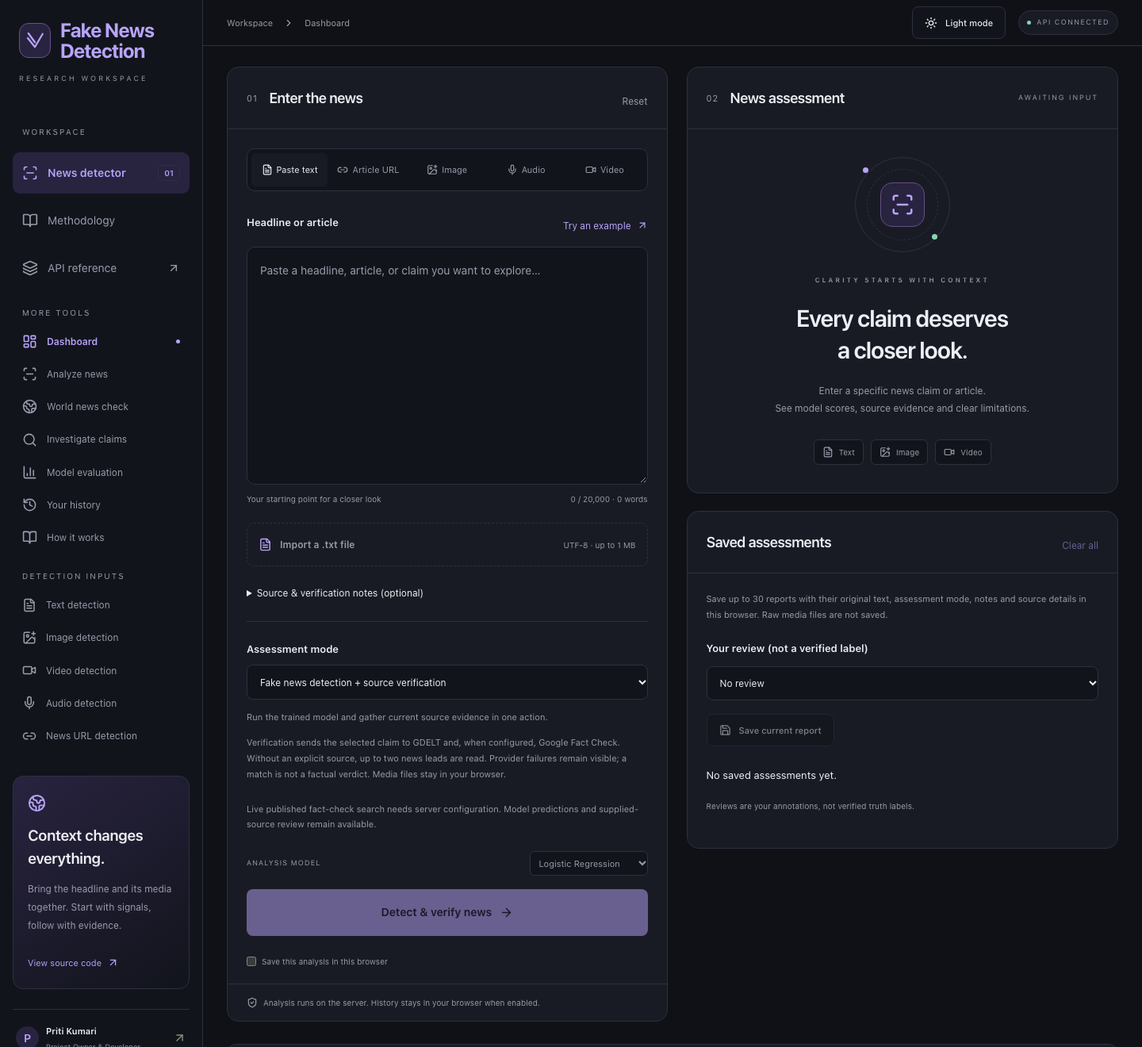
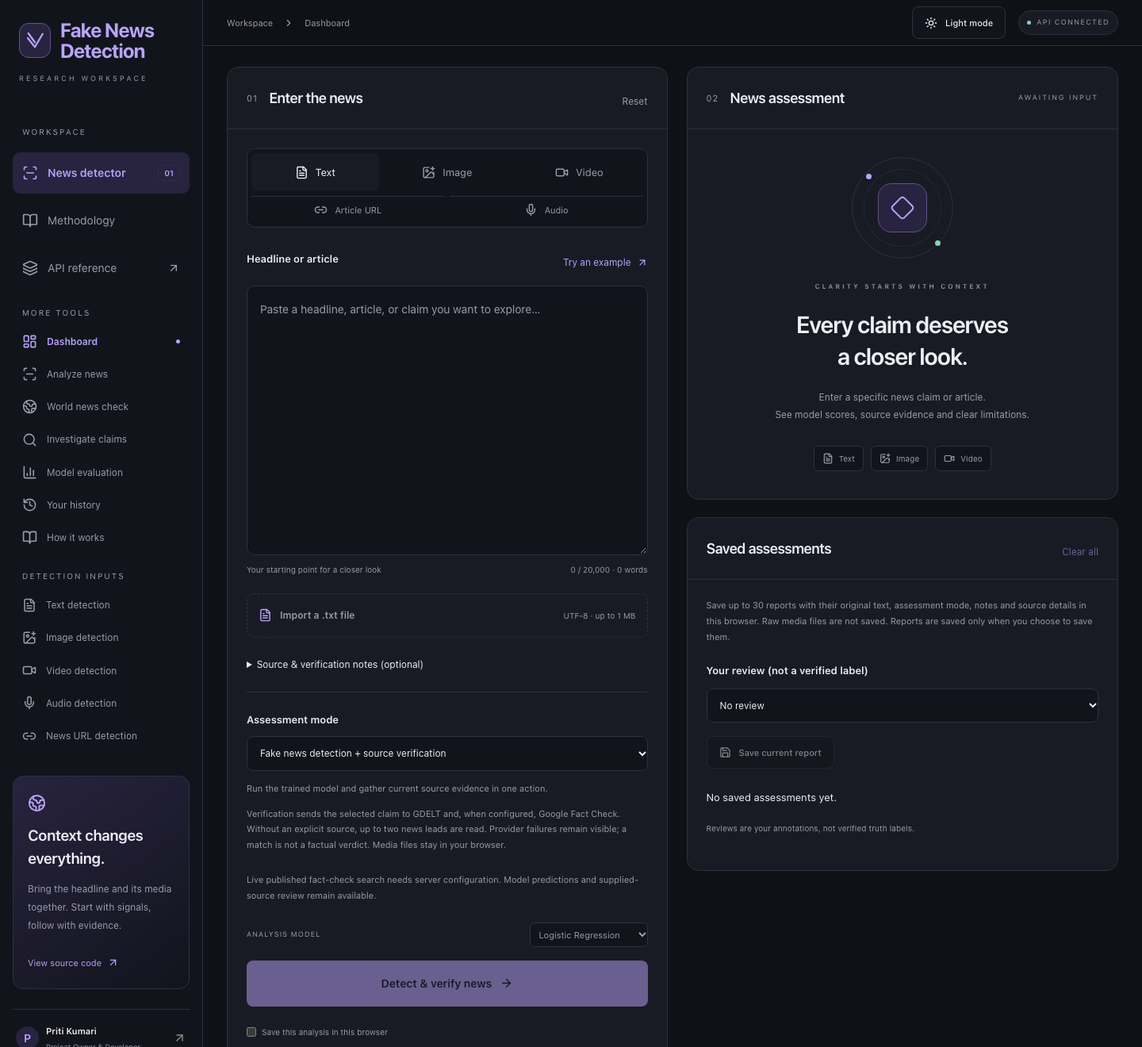
feat: refine reference workspace and accessible input navigation

diff --git a/frontend/research.css b/frontend/research.css
@@ -41,9 +41,9 @@ body{background:var(--paper);color:var(--ink);font:14px/1.6 var(--sans)}
 .research-app .input-tabs button.selected{background:var(--panel);color:var(--ink)}
 .research-app .input-tabs button svg{width:14px;height:14px}
 .research-app .analysis-card{overflow:hidden}
-.research-app .analysis-card>.input-dropzone{margin:26px 24px 0;padding:0;border:0;background:transparent;box-shadow:none}
-.research-app .analysis-card>.input-dropzone.drag-active{outline:2px dashed var(--accent);outline-offset:8px}
-.research-app .analysis-card>.input-dropzone>.drop-instruction{display:none}
+.research-app .analysis-card>.input-panel>.input-dropzone{margin:26px 24px 0;padding:0;border:0;background:transparent;box-shadow:none}
+.research-app .analysis-card>.input-panel>.input-dropzone.drag-active{outline:2px dashed var(--accent);outline-offset:8px}
+.research-app .analysis-card>.input-panel>.input-dropzone>.drop-instruction{display:none}
 .editor-heading{display:flex;justify-content:space-between;align-items:center;gap:16px;margin:0 0 17px}
 .editor-heading label{font-size:13px;font-weight:600;color:var(--ink)}
 .editor-heading button{white-space:nowrap;font-size:12px}
@@ -120,10 +120,10 @@ body{background:var(--paper);color:var(--ink);font:14px/1.6 var(--sans)}
 .research-app .publisher-rating{color:var(--accent);border-color:var(--line);background:var(--lime);font-size:11px}
 .research-app .bottom-strip{font-size:10px;color:var(--muted);margin:28px 0 0}.research-app footer{border-color:var(--line);color:var(--muted);font-size:10px;margin:0 30px;padding:22px 0}.research-app footer>span{color:var(--muted)}
 .research-app button:focus-visible,.research-app a:focus-visible,.research-app input:focus-visible,.research-app select:focus-visible,.research-app textarea:focus-visible{outline:2px solid var(--accent);outline-offset:4px}
-@media(min-width:1800px){.research-app .main-shell main{padding:32px 40px}.research-app .workspace-grid{gap:28px}.research-app .analysis-card .input-dropzone textarea{min-height:360px}.assessment-waiting{min-height:490px}.research-app .card-header{padding:28px 30px}.research-app .analysis-card>.input-dropzone{margin:30px 30px 0}.research-app .input-tabs{margin:28px 30px 0}.research-app .assessment-controls,.research-app .input-controls{margin:28px 30px}.assessment-waiting h3{font-size:35px}}
-@media(max-width:1200px) and (min-width:1001px){.research-app .sidebar{width:220px}.research-app .main-shell{margin-left:220px}.research-app main{padding:22px 20px}.research-app .workspace-grid{gap:18px}.research-app .card-header{padding:20px 18px}.research-app .input-tabs{margin:20px 18px 0}.research-app .input-tabs button{font-size:10px;gap:3px}.research-app .analysis-card>.input-dropzone{margin:22px 18px 0}.research-app .assessment-controls,.research-app .input-controls{margin:22px 18px}.assessment-status{font-size:8px;letter-spacing:1px}.assessment-waiting h3{font-size:25px}.saved-assessments-body{padding:20px 18px}}
+@media(min-width:1800px){.research-app .main-shell main{padding:32px 40px}.research-app .workspace-grid{gap:28px}.research-app .analysis-card .input-dropzone textarea{min-height:360px}.assessment-waiting{min-height:490px}.research-app .card-header{padding:28px 30px}.research-app .analysis-card>.input-panel>.input-dropzone{margin:30px 30px 0}.research-app .input-tabs{margin:28px 30px 0}.research-app .assessment-controls,.research-app .input-controls{margin:28px 30px}.assessment-waiting h3{font-size:35px}}
+@media(max-width:1200px) and (min-width:1001px){.research-app .sidebar{width:220px}.research-app .main-shell{margin-left:220px}.research-app main{padding:22px 20px}.research-app .workspace-grid{gap:18px}.research-app .card-header{padding:20px 18px}.research-app .input-tabs{margin:20px 18px 0}.research-app .input-tabs button{font-size:10px;gap:3px}.research-app .analysis-card>.input-panel>.input-dropzone{margin:22px 18px 0}.research-app .assessment-controls,.research-app .input-controls{margin:22px 18px}.assessment-status{font-size:8px;letter-spacing:1px}.assessment-waiting h3{font-size:25px}.saved-assessments-body{padding:20px 18px}}
 @media(max-width:1000px){.research-app .sidebar{width:270px;transform:translateX(-100%);transition:transform .2s;box-shadow:20px 0 80px #0007}.research-app .sidebar.open{transform:translateX(0)}.research-app .main-shell{margin-left:0}.research-app .mobile-bar{display:flex;align-items:center;justify-content:space-between;padding:14px 20px;height:76px;border-bottom:1px solid var(--line);background:var(--inset)}.research-app .mobile-bar .brand{font:700 18px/1.1 var(--sans);gap:10px}.research-app .mobile-bar .brand-mark{height:36px;width:34px}.research-app .topbar{height:49px;padding:0 20px}.research-app .workspace-grid{grid-template-columns:minmax(0,1fr)}.assessment-column{grid-template-columns:minmax(0,1fr) minmax(0,1fr)}.assessment-waiting{min-height:380px}.research-app main{padding:20px}.research-app .research-badge{display:none}.research-app .verification-features{grid-template-columns:1fr}.research-app .input-tabs button{font-size:12px}}
-@media(max-width:650px){.research-app .topbar>div{gap:7px;font-size:10px}.research-app .theme-toggle{font-size:10px;padding:6px 9px}.research-app main{padding:16px 12px}.research-app .workspace-grid{gap:18px}.assessment-column{grid-template-columns:minmax(0,1fr)}.research-app .card-header{padding:20px 18px;min-height:69px}.research-app .card-header h2{font-size:17px}.research-app .input-tabs{margin:18px 16px 0;grid-template-columns:repeat(3,minmax(0,1fr));gap:5px}.research-app .input-tabs button{padding:10px 5px;font-size:11px}.research-app .analysis-card>.input-dropzone{margin:22px 16px 0}.editor-heading{gap:10px}.editor-heading label{font-size:12px}.editor-heading button{font-size:11px}.research-app .analysis-card .input-dropzone textarea{min-height:260px;font-size:14px}.research-app .editor-meta{font-size:9px}.research-app .assessment-controls,.research-app .input-controls{margin:22px 16px}.research-app .verification-availability{margin:0 16px 18px}.research-app .text-upload-label{font-size:11px;padding:16px 11px}.text-upload-label>small{font-size:9px}.research-app .history-opt{margin:0 16px 18px}.research-app .privacy-note{padding:15px 16px}.assessment-waiting{min-height:390px}.research-app footer{margin:0 16px;font-size:9px;flex-direction:column}.research-app .subpage h1{font-size:36px}.research-app .research-badge{display:none}.research-app .classification-options{grid-template-columns:1fr}.research-app .bottom-strip{flex-direction:column;align-items:flex-start}.assessment-model-score>strong{font-size:36px}}
+@media(max-width:650px){.research-app .topbar>div{gap:7px;font-size:10px}.research-app .theme-toggle{font-size:10px;padding:6px 9px}.research-app main{padding:16px 12px}.research-app .workspace-grid{gap:18px}.assessment-column{grid-template-columns:minmax(0,1fr)}.research-app .card-header{padding:20px 18px;min-height:69px}.research-app .card-header h2{font-size:17px}.research-app .input-tabs{margin:18px 16px 0;grid-template-columns:repeat(3,minmax(0,1fr));gap:5px}.research-app .input-tabs button{padding:10px 5px;font-size:11px}.research-app .analysis-card>.input-panel>.input-dropzone{margin:22px 16px 0}.editor-heading{gap:10px}.editor-heading label{font-size:12px}.editor-heading button{font-size:11px}.research-app .analysis-card .input-dropzone textarea{min-height:260px;font-size:14px}.research-app .editor-meta{font-size:9px}.research-app .assessment-controls,.research-app .input-controls{margin:22px 16px}.research-app .verification-availability{margin:0 16px 18px}.research-app .text-upload-label{font-size:11px;padding:16px 11px}.text-upload-label>small{font-size:9px}.research-app .history-opt{margin:0 16px 18px}.research-app .privacy-note{padding:15px 16px}.assessment-waiting{min-height:390px}.research-app footer{margin:0 16px;font-size:9px;flex-direction:column}.research-app .subpage h1{font-size:36px}.research-app .research-badge{display:none}.research-app .classification-options{grid-template-columns:1fr}.research-app .bottom-strip{flex-direction:column;align-items:flex-start}.assessment-model-score>strong{font-size:36px}}
 @media(prefers-reduced-motion:reduce){html{scroll-behavior:auto}.research-app *{animation:none!important;transition:none!important;scroll-behavior:auto!important}}
 @media print{.research-app .sidebar,.research-app .mobile-bar,.research-app .topbar,.assessment-column,.assessment-controls,.research-app .classification-dashboard,.research-app .verification-features{display:none!important}.research-app .main-shell{margin:0}.research-app main{padding:0}.research-app .card{color:#111!important;background:#fff!important;border-color:#ccc}.research-app .workspace-grid{display:none}.research-app .results-section,.research-app .verification-assessment{color:#111!important}}
 
@@ -133,3 +133,21 @@ body{background:var(--paper);color:var(--ink);font:14px/1.6 var(--sans)}
 .research-app .highlighted-text mark{background:var(--lime);color:var(--ink);border-radius:3px;padding:1px 3px}
 .research-app .contribution-row{font-size:11px;color:var(--ink)}.research-app .contribution-track{background:var(--inset)}.research-app .contribution-track .real{background:#91c6ae}.research-app .contribution-track .fake{background:#d99f91}
 .research-app table th{color:var(--muted);border-color:var(--line)}.research-app table td{color:var(--ink);border-color:var(--line)}.research-app .confusion-matrix strong{background:var(--inset);color:var(--ink)}.research-app .confusion-matrix strong.mistake{background:var(--lime);color:var(--accent)}
+
+/* Reference workspace: three main inputs, with the existing extra tools below. */
+@media print{body[data-media-evidence-print] .analysis-card>.input-panel{display:block!important}body[data-media-evidence-print] .input-panel>:not(.media-input){display:none!important}}
+.research-app .input-tools{display:grid;grid-template-columns:repeat(6,minmax(0,1fr));gap:6px;margin:24px 24px 0;padding:5px;border:1px solid var(--line);border-radius:10px;background:var(--inset)}
+.input-tools button{display:flex;align-items:center;justify-content:center;gap:9px;color:var(--muted);border-radius:7px;min-height:44px;font-size:13px}
+.input-tools .main-input-tab{grid-column:span 2;min-height:48px}
+.input-tools .extra-input-tab{grid-column:span 3;border-top:1px solid var(--line);border-radius:0;font-size:11px;min-height:34px}
+.input-tools button.selected{background:var(--panel);color:var(--ink)}
+.input-tools button:hover{color:var(--accent)}
+.research-app .analysis-card .input-dropzone textarea{min-height:340px}
+.research-app .assessment-waiting{min-height:460px}
+.research-app .assessment-orbit{width:128px;height:128px}
+.research-app .assessment-orbit>span{width:62px;height:62px;border-radius:17px}
+.research-app .assessment-orbit>span svg{stroke-width:1.5}
+.research-app .editor-heading{margin-bottom:20px}
+@media(min-width:1800px){.research-app .analysis-card .input-dropzone textarea{min-height:420px}.research-app .input-tools{margin:28px 30px 0}.research-app .assessment-waiting{min-height:540px}}
+@media(max-width:1200px) and (min-width:1001px){.research-app .input-tools{margin:20px 18px 0}}
+@media(max-width:650px){.research-app .input-tools{margin:18px 16px 0}.input-tools button{gap:6px;font-size:12px}.research-app .analysis-card .input-dropzone textarea{min-height:280px}.research-app .assessment-waiting{min-height:390px}}

diff --git a/frontend/page.tsx b/frontend/page.tsx
@@ -8,6 +8,7 @@ import DropArea from "./drop-area";
 import Investigation from "./investigation";
 import WorldNews from "./world-news";
 import { AssessmentControls, VerificationAssessment, defaultAssessment, type SourceVerification } from "./assessment";
+import InputTabs from "./input-tabs";
 import { AssessmentPreview, SavedAssessments } from "./research-workspace";
 import type { Analysis, Explanation, Saved, ReaderReview } from "./news-types";
 import { reviewLabels } from "./news-types";
@@ -120,6 +121,7 @@ export default function Home() {
     persistHistory([{ id: crypto.randomUUID(), date: new Date().toISOString(), text: analyzedText, result, verification, report: structuredReport, mediaTrace, source, options: { ...assessmentOptions }, review: currentReview }, ...history]);
   }
   function restoreAssessment(item: Saved) {
+    extractionRequest.current?.abort(); setExtracting(false); textImport.current++;
     assessmentRequest.current?.abort(); setBusy(false); setError("");
     setText(item.text); setAnalyzedText(item.text); setMediaTrace(item.mediaTrace || null); setMediaFiles(null); setStructuredReport(item.report || null); setVerification(item.verification || null); setResult(item.result); setSource(item.source || null); setEvidence(null); setMediaEvidenceContext(null); setQuery(item.verification?.claim || item.result?.claims[0]?.text || item.text.slice(0, 250));
     setAssessmentOptions(item.options || { ...defaultAssessment, mode: item.verification ? item.result ? "detect_verify" : "verify" : "detect" }); setCurrentReview(item.review || "none"); setMode("text"); navigate("analyze");
@@ -234,7 +236,8 @@ export default function Home() {
         {(view === "analyze" || view === "dashboard") && <>
           <section className="workspace-grid" aria-label="News analysis workspace">
             <div className="analysis-card card"><div className="card-header"><div><span className="step-number">01</span><h2>Enter the news</h2></div><button className="text-link reset-workspace" onClick={resetWorkspace}>Reset</button></div>
-              <div className="input-tabs" role="tablist" aria-label="Input type"><button role="tab" aria-selected={mode === "text"} className={mode === "text" ? "selected" : ""} onClick={() => setMode("text")}><FileText size={16} />Paste text</button><button role="tab" aria-selected={mode === "url"} className={mode === "url" ? "selected" : ""} onClick={() => setMode("url")}><Link2 size={16} />Article URL</button><button role="tab" aria-selected={mode === "image"} className={mode === "image" ? "selected" : ""} onClick={() => setMode("image")}><ImagePlus size={16} />Image</button><button role="tab" aria-selected={mode === "audio"} className={mode === "audio" ? "selected" : ""} onClick={() => setMode("audio")}><Mic size={16} />Audio</button><button role="tab" aria-selected={mode === "video"} className={mode === "video" ? "selected" : ""} onClick={() => setMode("video")}><Video size={16} />Video</button></div>
+              <InputTabs mode={mode} onChange={setMode} />
+              <div className="input-panel" id="news-input-panel" role="tabpanel" aria-label={`${mode} input`}>
               {mode !== "text" && <AssessmentControls value={assessmentOptions} busy={busy} onChange={next => { setAssessmentOptions(next); setVerification(null); setResult(null); setError(""); }} />}
               {mode === "image" || mode === "video" || mode === "audio" ? <MediaInput key={`${mode}-${inputRevision}`} kind={mode} analysisBusy={busy} onAnalyze={(reviewed, trace, files) => { setSource(null); void analyze(reviewed, trace, files); }} onReviewed={(reviewed, filename, trace, files) => { setMediaFiles(files); setMediaTrace(trace); setEvidenceLanguage(trace.language); resetAnalysis(reviewed); setSource(null); setMode("text"); setNotice(`Reviewed text from ${filename} is ready. Check the article editor, then select Analyze article. The assessment covers these words only.`); setTimeout(() => document.getElementById("article-text")?.focus(), 0); }} /> : mode === "url" ? <DropArea label="Article URL drop area" hint="Drag an article link here, or enter its URL below." disabled={busy || extracting} onDrop={dropURL}><form onSubmit={event => { event.preventDefault(); void extract(); }} className="url-form"><label htmlFor="article-url">Article URL</label><div className="url-row"><input id="article-url" type="url" placeholder="https://publisher.com/article" required maxLength={2048} value={url} onChange={e => setUrl(e.target.value)} /><button className="primary-button" disabled={extracting}>{extracting ? <LoaderCircle className="spin" size={17} /> : <ArrowDown size={17} />}Extract</button></div><p className="field-help">We’ll extract the article for you to review before analysis. Some publishers block automated reading.</p></form></DropArea> : <>
                 {source && <div className="source-preview"><Globe2 size={16} /><div><strong>{source.title}</strong><span>{source.publisher}{source.truncated ? " · Long article shortened for analysis" : " · Review extracted text below"}</span></div><button className="icon-button" aria-label="Remove article source" onClick={() => setSource(null)}><X size={15} /></button></div>}
@@ -249,6 +252,7 @@ export default function Home() {
                 <div className="input-controls"><div className="model-control"><label htmlFor="model">ANALYSIS MODEL</label><select id="model" value={model} onChange={event => { setModel(event.target.value); setResult(null); }}><option value="logistic">Logistic Regression</option><option value="svm">Calibrated Linear SVM</option></select></div><button className={`primary-button analyze-button ${assessmentOptions.mode !== "detect" ? "verify-action" : ""}`} onClick={() => void analyze()} disabled={busy || text.trim().length < 10}>{busy ? <><LoaderCircle size={17} className="spin" />Assessing…</> : <>{assessmentOptions.mode === "detect_verify" ? "Detect & verify news" : assessmentOptions.mode === "verify" ? "Verify news" : "Analyze article"} <ArrowRight size={17} /></>}</button></div>
                 <label className="history-opt"><input type="checkbox" disabled={busy} checked={saveHistory} onChange={e => setSaveHistory(e.target.checked)} />Save this analysis in this browser</label>{busy && <button className="secondary-button" onClick={() => { assessmentRequest.current?.abort(); setBusy(false); }}>Cancel assessment</button>}
               </>}
+              </div>
               {error && <p className="error-message" role="alert"><Info size={17} />{error}</p>}
               <div className="privacy-note"><ShieldCheck size={14} />Analysis runs on the server. History stays in your browser when enabled.</div>
             </div>

diff --git a/frontend/research-workspace.tsx b/frontend/research-workspace.tsx
@@ -1,6 +1,6 @@
 "use client";
 
-import { ArrowDown, ArrowUpRight, Download, FileText, ImagePlus, LoaderCircle, Save, ScanLine, ShieldCheck, Trash2, Video } from "lucide-react";
+import { ArrowDown, Diamond, Download, FileText, ImagePlus, LoaderCircle, Save, ShieldCheck, Trash2, Video } from "lucide-react";
 import type { Analysis, ReaderReview, Saved } from "./news-types";
 import { reviewLabels } from "./news-types";
 import type { SourceVerification } from "./assessment";
@@ -9,7 +9,7 @@ export function AssessmentPreview({ analysis, verification, busy, error, onDetai
   return <section className="card assessment-overview" aria-label="News assessment">
     <div className="card-header"><div><span className="step-number">02</span><h2>News assessment</h2></div><span className="assessment-status">{busy ? "PROCESSING" : analysis || verification ? "REPORT READY" : error ? "NEEDS ATTENTION" : "AWAITING INPUT"}</span></div>
     {busy ? <div className="assessment-waiting" role="status"><LoaderCircle className="spin" size={38} /><h3>Taking a closer look…</h3><p>Running the selected assessment. Source searches may take a few seconds.</p></div> : !analysis && !verification ? <div className="assessment-waiting">
-      <div className="assessment-orbit" aria-hidden="true"><span><ScanLine size={30} /></span></div>
+      <div className="assessment-orbit" aria-hidden="true"><span><Diamond size={32} /></span></div>
       <p className="eyebrow">CLARITY STARTS WITH CONTEXT</p><h3>Every claim deserves<br />a closer look.</h3>
       <p>{error ? "Check the input message and try again." : "Enter a specific news claim or article."}<br />See model scores, source evidence and clear limitations.</p>
       <div className="empty-input-shortcuts"><button onClick={() => onChoose("text")}><FileText size={14} />Text</button><button onClick={() => onChoose("image")}><ImagePlus size={14} />Image</button><button onClick={() => onChoose("video")}><Video size={14} />Video</button></div>
@@ -24,7 +24,7 @@ export function AssessmentPreview({ analysis, verification, busy, error, onDetai
 export function SavedAssessments({ items, review, onReview, canSave, onSave, onRestore, onDelete, onClear, onDownload }: { items: Saved[]; review: ReaderReview; onReview: (review: ReaderReview) => void; canSave: boolean; onSave: () => void; onRestore: (item: Saved) => void; onDelete: (id: string) => void; onClear: () => void; onDownload: (item: Saved) => void }) {
   return <section className="card saved-assessments" aria-label="Saved assessments">
     <div className="card-header"><h2>Saved assessments</h2><button className="text-link" disabled={!items.length} onClick={onClear}>Clear all</button></div>
-    <div className="saved-assessments-body"><p className="field-help">Save up to 30 reports with their original text, assessment mode, notes and source details in this browser. Raw media files are not saved.</p>
+    <div className="saved-assessments-body"><p className="field-help">Save up to 30 reports with their original text, assessment mode, notes and source details in this browser. Raw media files are not saved. Reports are saved only when you choose to save them.</p>
       <label htmlFor="reader-review">Your review (not a verified label)</label><select id="reader-review" value={review} onChange={event => onReview(event.target.value as ReaderReview)}>{Object.entries(reviewLabels).map(([key, label]) => <option value={key} key={key}>{label}</option>)}</select>
       <button className="secondary-button" disabled={!canSave} onClick={onSave}><Save size={15} />Save current report</button>
       {items.length ? <div className="saved-assessment-list">{items.map(item => <article key={item.id}><button className="saved-assessment-open" onClick={() => onRestore(item)}><strong>{item.text.slice(0, 95)}{item.text.length > 95 ? "…" : ""}</strong><span>{new Date(item.date).toLocaleDateString()} · {item.result ? item.result.verdict === "uncertain" ? "Uncertain model result" : `${item.result.verdict}-like writing pattern` : "Source verification"}</span><small>{reviewLabels[item.review || "none"]}</small></button><div><button className="icon-button" aria-label="Download saved report" onClick={() => onDownload(item)}><Download size={15} /></button><button className="icon-button" aria-label="Delete saved report" onClick={() => onDelete(item.id)}><Trash2 size={15} /></button></div></article>)}</div> : <p className="saved-empty">No saved assessments yet.</p>}

diff --git a/frontend/assessment.tsx b/frontend/assessment.tsx
@@ -17,15 +17,14 @@ export const defaultAssessment: AssessmentOptions = { mode: "detect", claim: "",
 export function AssessmentControls({ value, onChange, busy }: { value: AssessmentOptions; onChange: (next: AssessmentOptions) => void; busy: boolean }) {
   function update(next: Partial<AssessmentOptions>) { onChange({ ...value, ...next }); }
   return <section className="assessment-controls" aria-label="Assessment options">
-    {value.mode !== "detect" && <>
-      <details className="assessment-source-notes"><summary>Source &amp; verification notes (optional)</summary>
+      <details key={value.mode} className="assessment-source-notes"><summary>Source &amp; verification notes (optional)</summary>
+        {value.mode === "detect" && <p className="field-help">Notes are retained with your report. Select a source verification mode to retrieve evidence.</p>}
         <label htmlFor="assessment-claim">Specific claim to verify</label><input id="assessment-claim" disabled={busy} minLength={8} maxLength={300} value={value.claim} onChange={event => update({ claim: event.target.value })} placeholder="Leave empty to select one candidate statement from the news text" />
         <label htmlFor="assessment-source-url">Evidence source URL</label><input id="assessment-source-url" disabled={busy} type="url" maxLength={2048} value={value.sourceUrl} onChange={event => update({ sourceUrl: event.target.value })} placeholder="https://original-source.example/report" />
         <label htmlFor="assessment-source-text">Evidence text to review</label><textarea id="assessment-source-text" disabled={busy} maxLength={20000} value={value.sourceText} onChange={event => update({ sourceText: event.target.value })} placeholder="Optional source passage (at least 40 characters). Pasted evidence is not authenticated." />
         <label htmlFor="assessment-notes">Your context and verification notes</label><textarea id="assessment-notes" disabled={busy} maxLength={1000} value={value.notes} onChange={event => update({ notes: event.target.value })} placeholder="Event date, location, original source or details you want to check…" />
         <label htmlFor="assessment-language">Published review language</label><select id="assessment-language" disabled={busy} value={value.language} onChange={event => update({ language: event.target.value })}><option value="all">All languages</option><option value="en">English</option><option value="hi">Hindi</option></select>
       </details>
-    </>}
     <label htmlFor="assessment-mode">Assessment mode</label>
     <select id="assessment-mode" disabled={busy} value={value.mode} onChange={event => update({ mode: event.target.value as AssessmentOptions["mode"] })}>
       <option value="detect">Fake news detection</option>

diff --git a/frontend/input-tabs.tsx b/frontend/input-tabs.tsx
@@ -1,0 +1,30 @@
+"use client";
+
+import { FileText, ImagePlus, Link2, Mic, Video } from "lucide-react";
+import type { KeyboardEvent } from "react";
+
+const inputs = [
+  { mode: "text", label: "Text", accessibleName: "Paste text", icon: FileText },
+  { mode: "image", label: "Image", accessibleName: "Image", icon: ImagePlus },
+  { mode: "video", label: "Video", accessibleName: "Video", icon: Video },
+  { mode: "url", label: "Article URL", accessibleName: "Article URL", icon: Link2 },
+  { mode: "audio", label: "Audio", accessibleName: "Audio", icon: Mic },
+] as const;
+export type InputMode = typeof inputs[number]["mode"];
+
+export default function InputTabs({ mode, onChange }: { mode: InputMode; onChange: (mode: InputMode) => void }) {
+  function move(event: KeyboardEvent<HTMLButtonElement>, index: number) {
+    let next: number;
+    if (event.key === "ArrowRight") next = (index + 1) % inputs.length;
+    else if (event.key === "ArrowLeft") next = (index + inputs.length - 1) % inputs.length;
+    else if (event.key === "Home") next = 0;
+    else if (event.key === "End") next = inputs.length - 1;
+    else return;
+    event.preventDefault();
+    onChange(inputs[next].mode);
+    document.getElementById(`input-tab-${inputs[next].mode}`)?.focus();
+  }
+  return <div className="input-tools" role="tablist" aria-label="Input type">
+    {inputs.map((item, index) => <button key={item.mode} id={`input-tab-${item.mode}`} role="tab" aria-label={item.mode === "text" ? item.accessibleName : undefined} aria-selected={mode === item.mode} aria-controls="news-input-panel" tabIndex={mode === item.mode ? 0 : -1} className={`${index < 3 ? "main-input-tab" : "extra-input-tab"} ${mode === item.mode ? "selected" : ""}`} onClick={() => onChange(item.mode)} onKeyDown={event => move(event, index)}><item.icon size={17} />{item.label}</button>)}
+  </div>;
+}

diff --git a/tests/browser/workspace.spec.ts b/tests/browser/workspace.spec.ts
@@ -1,6 +1,28 @@
 import { expect, test } from "@playwright/test";
 import { readFile } from "node:fs/promises";
 
+test("input tabs support keyboard selection and retain context notes across modes", async ({ page }) => {
+  await page.goto("/");
+  await expect(page.locator("html")).toHaveAttribute("data-theme", "dark");
+  const textTab = page.getByRole("tab", { name: "Paste text", exact: true });
+  await textTab.focus();
+  await page.keyboard.press("ArrowRight");
+  await expect(page.getByRole("tab", { name: "Image", exact: true })).toBeFocused();
+  await expect(page.getByRole("tabpanel", { name: "image input", exact: true })).toBeVisible();
+  await page.keyboard.press("End");
+  await expect(page.getByRole("tab", { name: "Audio", exact: true })).toBeFocused();
+  await page.keyboard.press("Home");
+  await expect(textTab).toBeFocused();
+  await page.getByText("Source & verification notes (optional)", { exact: true }).click();
+  await page.getByLabel("Your context and verification notes").fill("Check the event date and original publisher.");
+  await page.getByLabel("Assessment mode", { exact: true }).selectOption("detect_verify");
+  await page.getByText("Source & verification notes (optional)", { exact: true }).click();
+  await expect(page.getByLabel("Your context and verification notes")).toHaveValue("Check the event date and original publisher.");
+  await page.getByRole("button", { name: "Reset", exact: true }).click();
+  await page.getByText("Source & verification notes (optional)", { exact: true }).click();
+  await expect(page.getByLabel("Your context and verification notes")).toHaveValue("");
+});
+
 test("reset cancels article extraction and preserves an empty editor", async ({ page }) => {
   let notifyRequest!: () => void;
   let releaseResponse!: () => void;

diff --git a/docs/RESEARCH_WORKSPACE.md b/docs/RESEARCH_WORKSPACE.md
@@ -19,6 +19,14 @@ The requested reference image guides the dark charcoal/navy panels, violet actio
 
 This implements the specifically requested workspace, not every planned page/research phase in the master prompt. There are no fabricated analytics, published ratings, quotes or result examples. Screenshots use actual app rendering; any practice article is labeled illustrative.
 
+## Supplied reference refinement (2026-11-02)
+
+The follow-up reference is applied to the existing working system: prominent Text, Image and Video tabs, a separate row for the retained URL/audio tools, a larger editor and diamond assessment graphic. Tabs support Left/Right, Home/End and a single keyboard tab stop, with an explicitly named content panel. Source/context notes are available in every assessment mode and survive mode changes; detection-only mode explains that source retrieval needs a verification mode. The existing 20,000-character and 30-report compatibility limits remain in place. Saving remains opt-in, and restoring a report cancels pending article extraction and text imports.
+
+Existing model, media, source-retrieval, reader-review and report features are retained. This refinement does not configure the Groq service mentioned in the reference, invent evidence, or add a new factual-verdict model. The current implementation uses its existing providers and discloses their actual availability.
+
+Refinement verification: `.venv/bin/python -m pytest tests -q` **97 passed, 1 optional checkpoint skipped**; `npm run test:unit` **13 passed**; production build, typecheck and `git diff --check` passed. The final production-build browser suite, `PLAYWRIGHT_BASE_URL=http://127.0.0.1:3200 npm run test:e2e -- --workers=1`, passed **52 checks** with **16 opt-in integrations skipped**. The first run exposed ambiguous URL labels and print citations hidden by the new content wrapper; both were fixed before this passing full rerun. Six README screenshots and a 390 × 844 mobile preview were captured from actual rendering and visually inspected. Publication and CI outcomes are recorded in the release pull request.
+
 ## Validation
 
 Node logic checks passed **13 tests**, including legacy history, source-only records and corrupt-browser-record handling. The first full local production-build browser run passed **48 desktop/mobile checks**, with **16 opt-in model/media integrations skipped**. The final focused rerun passed **16 desktop/mobile cases**, including cancellation of an in-flight URL extraction on Reset and the complete source-only saved-report lifecycle. Python regressions passed **97 tests**, with **1 optional checkpoint case skipped**. Production build, typecheck and diff checks passed. Actual screenshots were refreshed from the final local production build and visually inspected. CI and publication results are recorded in the corresponding GitHub pull request. No new model accuracy is claimed.

diff --git a/README.md b/README.md
@@ -58,7 +58,7 @@ flowchart LR
 - **Video Speech Extraction and Analysis:** Transcribe short clips, inspect sampled frame text, and follow timestamps.
 - **News URL Analysis:** Extract a public article and review its text before analysis.
 - **World News Check:** Search international news and published fact-checks together, with language, publisher-country, and recent-news date filters. Review publisher ratings and open sources in the evidence notebook.
-- **Research Workspace:** Dark charcoal/violet interface with side-by-side news entry and assessment, real empty/loading/result states, reset, and a saved-assessment panel. Save, restore, download, delete or clear reports with reader review annotations, original text, mode, notes and source details.
+- **Research Workspace:** Dark charcoal/violet interface with side-by-side news entry and assessment, real empty/loading/result states, reset, and a saved-assessment panel. Text, Image and Video tabs support keyboard navigation; URL/audio tools and persistent source/context notes remain available. Save, restore, download, delete or clear reports with reader review annotations, original text, mode, notes and source details.
 - **Detect & Verify:** Choose detection, source verification, or both from **Assessment mode**. Add an optional claim, source URL, evidence text and context notes. One action returns separate model and source-review results, with export and evidence-notebook handoff.
 - **Fake/Real Prediction:** Receive a fake-like or real-like writing-pattern result, or **Uncertain** when appropriate.
 - **Explainable Prediction Results:** Inspect influential words, phrase contributions, and reasons for uncertainty.

diff --git a/docs/screenshots/README.md b/docs/screenshots/README.md
@@ -1,6 +1,6 @@
 # Actual application screenshots
 
-Captured on **2026-11-02** from the local production build of `feature/research-workspace-interface`, at http://127.0.0.1:3100 with the current FastAPI backend on port 8100. Public application: https://fake-news-detection-priti.vercel.app/.
+Captured on **2026-11-02** from the local production build of `feature/reference-workspace-refinement`, at http://127.0.0.1:3200 with the current FastAPI backend on port 8100. Public application: https://fake-news-detection-priti.vercel.app/; alternate production address: https://verity-news-sable.vercel.app/.
 
 - Chromium through installed Playwright; desktop viewport **1440 × 1320**, device scale factor 1; the app's default dark theme.
 - Build: `API_ORIGIN=http://127.0.0.1:8100 npm run build`, followed by the matching production frontend/backend servers.
